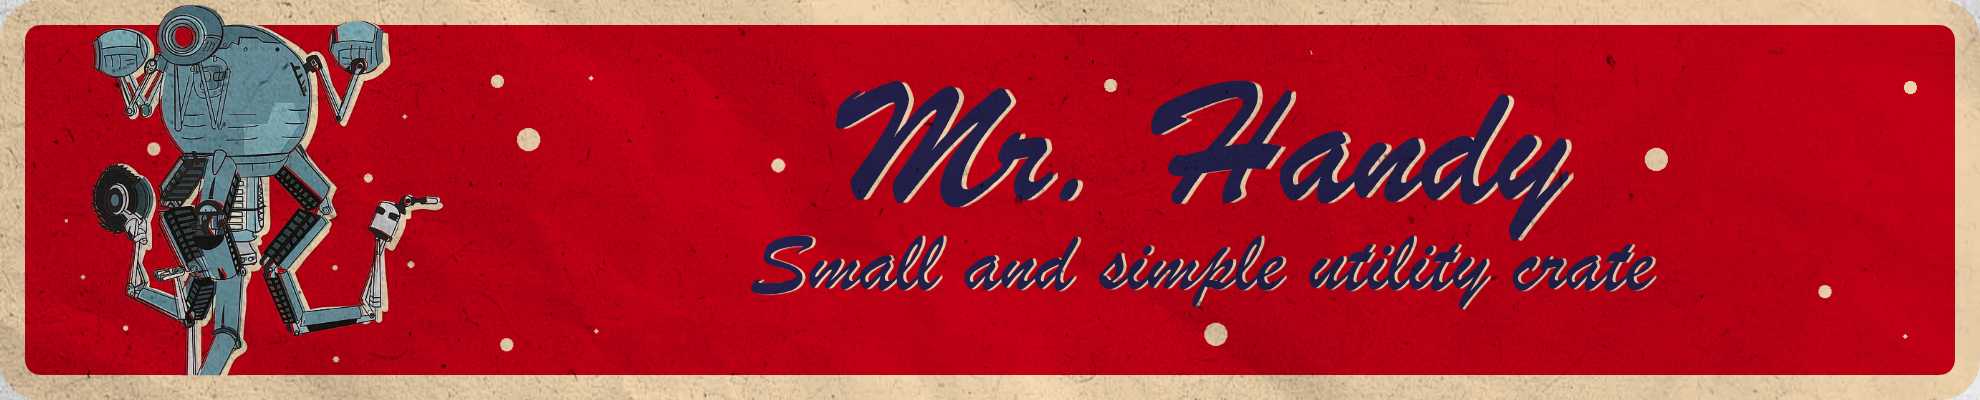
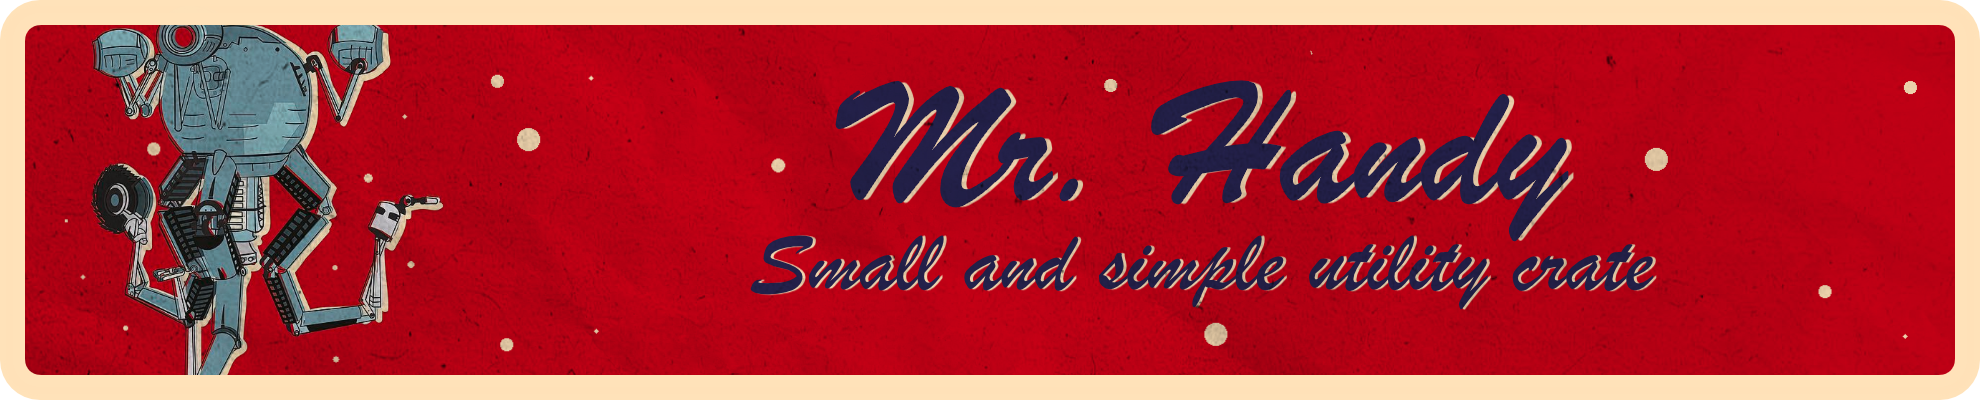
update cover image and add it to readme.md

Changed region(s): [[0.0, 0.0, 1.0, 1.0], [0.9859, 0.42, 1.0, 0.45]]

diff --git a/README.md b/README.md
@@ -1,4 +1,4 @@
-# Mr. Handy
+![Mr. Handy](https://github.com/TaXi0k/mr_handy/blob/master/assets/readme_cover.png?raw=true)
 
 A small and simple utility crate made by me for me, but if you like it - feel free to use it just remember to stick to the [LICENSE](LICENSE).
 
